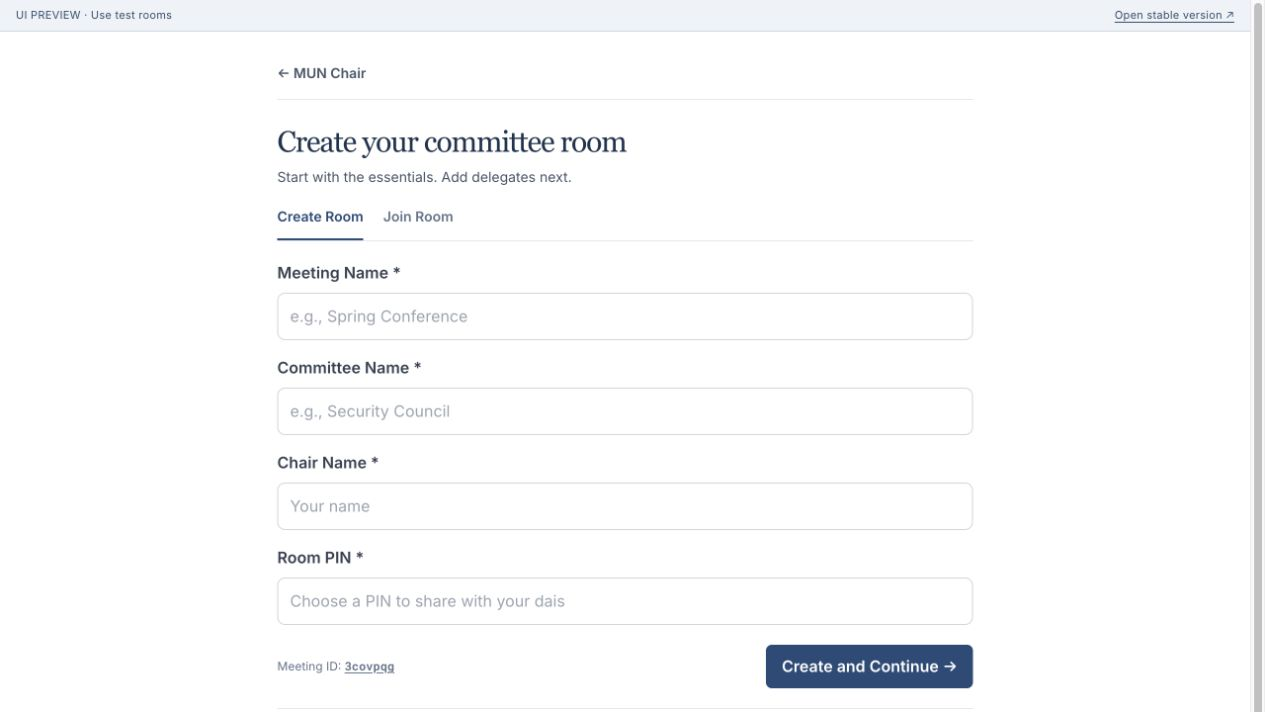
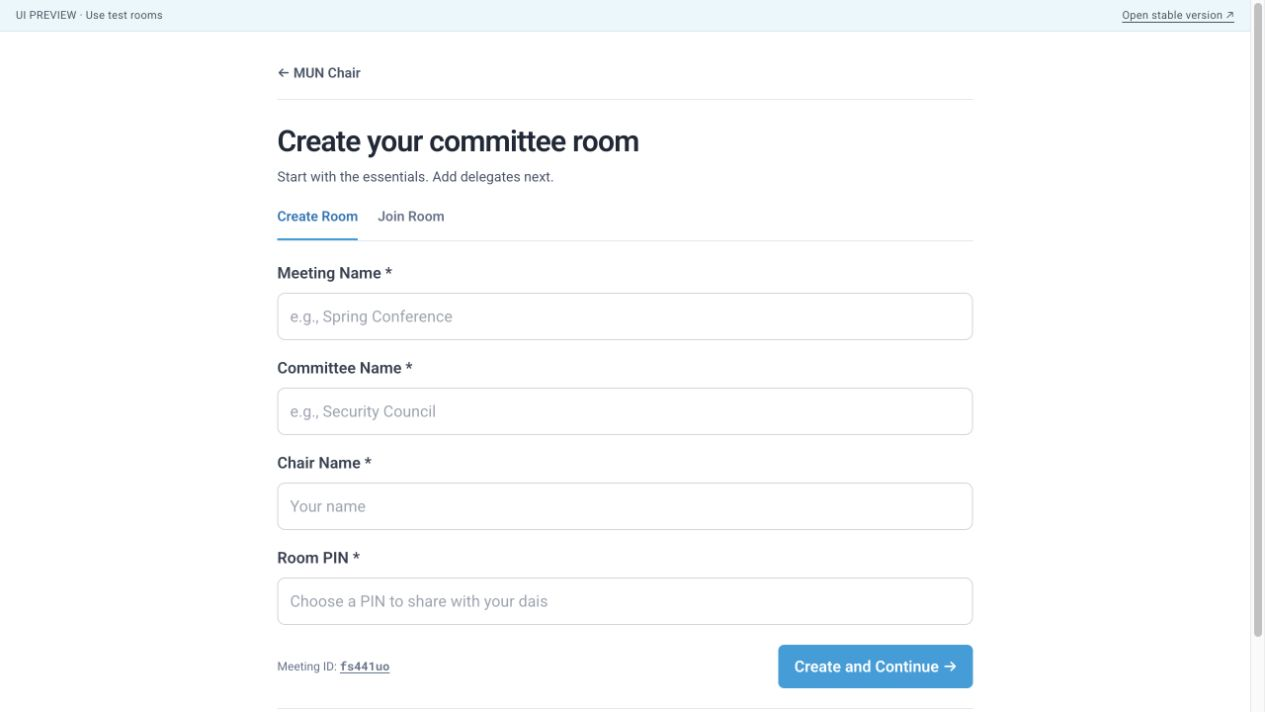
Simplify homepage copy and showcase current meeting UI

diff --git a/src/pages/HomePage.tsx b/src/pages/HomePage.tsx
@@ -9,7 +9,7 @@ interface HomePageProps {
 }
 
 export const HomePage: React.FC<HomePageProps> = ({ onCreateRoom, onJoinRoom, onStartDemo, walkthroughUrl }) => {
-  const [activeStep, setActiveStep] = useState(0);
+  const [activeStep, setActiveStep] = useState(2);
   const step = workflowSteps[activeStep];
 
   return (
@@ -19,30 +19,24 @@ export const HomePage: React.FC<HomePageProps> = ({ onCreateRoom, onJoinRoom, on
         <span className="text-xs text-slate-500">Free beta · No account needed</span>
       </header>
       <main className="mx-auto max-w-5xl px-5 sm:px-8">
-        <section className="py-12 sm:py-16">
-          <p className="mb-4 text-sm font-semibold text-blue-800">For the dais</p>
-          <h1 className="desk-title max-w-2xl text-4xl leading-tight sm:text-5xl">Your committee, in order.</h1>
-          <p className="mt-5 max-w-xl text-lg leading-8 text-slate-600">Keep speakers, motions and votes together. Spend less time keeping records, and more time chairing.</p>
-          <div className="mt-8 flex flex-wrap items-center gap-3">
-            <button type="button" onClick={onCreateRoom} className="rounded-md bg-blue-800 px-6 py-3 font-semibold text-white hover:bg-blue-900 focus-visible:outline focus-visible:outline-2 focus-visible:outline-offset-4 focus-visible:outline-blue-700">Create Room <span aria-hidden="true">→</span></button>
-            <button type="button" onClick={onJoinRoom} className="rounded-md border border-slate-300 px-6 py-3 font-semibold hover:border-blue-700 hover:text-blue-800 focus-visible:outline focus-visible:outline-2 focus-visible:outline-offset-4 focus-visible:outline-blue-700">Join Room</button>
-          </div>
-          <p className="mt-3 text-sm text-slate-500">Joining a team? Have your Meeting ID and PIN ready.</p>
-          <div className="mt-7 flex flex-wrap items-center gap-x-6 gap-y-3 text-sm">
-            <button type="button" onClick={onStartDemo} className="font-semibold text-blue-800 underline decoration-blue-200 underline-offset-4 hover:decoration-blue-800">Try a sample committee →</button>
-            {walkthroughUrl ? <a href={walkthroughUrl} target="_blank" rel="noreferrer" className="text-slate-600 underline underline-offset-4">Watch the walkthrough</a> : <span className="text-slate-500">Video walkthrough coming soon</span>}
+        <section className="py-10 sm:py-12 text-center">
+          <h1 className="desk-title mx-auto max-w-3xl text-4xl leading-tight sm:text-6xl">Chair your next committee.</h1>
+          <p className="mt-4 text-base leading-7 text-slate-600 sm:text-lg">Speakers, motions, votes—all in one place.</p>
+          <div className="mt-6 flex flex-wrap items-center justify-center gap-3">
+            <button type="button" onClick={onCreateRoom} className="rounded-md bg-primary px-6 py-3 font-semibold text-white hover:bg-primary-hover focus-visible:outline focus-visible:outline-2 focus-visible:outline-offset-4 focus-visible:outline-primary">Create Room <span aria-hidden="true">→</span></button>
+            <button type="button" onClick={onJoinRoom} className="rounded-md border border-slate-300 px-6 py-3 font-semibold hover:border-primary hover:text-primary-text focus-visible:outline focus-visible:outline-2 focus-visible:outline-offset-4 focus-visible:outline-primary">Join Room</button>
+            <button type="button" onClick={onStartDemo} className="px-3 py-3 font-semibold text-primary-text underline decoration-sky-200 underline-offset-4 hover:decoration-primary focus-visible:outline focus-visible:outline-2 focus-visible:outline-offset-4 focus-visible:outline-primary">Try demo <span aria-hidden="true">→</span></button>
           </div>
         </section>
-        <section className="border-t border-slate-200 py-10" aria-labelledby="workflow-heading">
-          <h2 id="workflow-heading" className="desk-title text-2xl">From roll call to the final vote.</h2>
-          <div className="mt-6 flex flex-wrap gap-x-6 gap-y-2" aria-label="Preview the meeting workflow">
-            {workflowSteps.map((item, index) => <button key={item.id} type="button" aria-pressed={activeStep === index} onClick={() => setActiveStep(index)} className={`border-b-2 py-2 text-sm font-semibold ${activeStep === index ? 'border-blue-800 text-blue-800' : 'border-transparent text-slate-500 hover:text-slate-900'}`}><span className="mr-2 font-mono text-xs">0{index + 1}</span>{item.label}</button>)}
+        <section className="pb-10" aria-label="Product preview">
+          <img src={step.imageSrc} alt={step.imageAlt} decoding="async" className="w-full border border-slate-200" />
+          <div className="mt-4 flex flex-wrap justify-center gap-x-6 gap-y-2" aria-label="Preview the meeting workflow">
+            {workflowSteps.map((item, index) => <button key={item.id} type="button" aria-pressed={activeStep === index} onClick={() => setActiveStep(index)} className={`border-b-2 py-2 text-sm font-semibold ${activeStep === index ? 'border-primary text-primary-text' : 'border-transparent text-slate-500 hover:text-slate-900'}`}><span className="mr-2 font-mono text-xs">0{index + 1}</span>{item.label}</button>)}
           </div>
-          <p className="my-4 max-w-2xl text-sm leading-6 text-slate-600">{step.description}</p>
-          <img src={step.imageSrc} alt={step.imageAlt} loading="lazy" decoding="async" className="w-full rounded-md border border-slate-200" />
+          {walkthroughUrl && <a href={walkthroughUrl} target="_blank" rel="noreferrer" className="mt-4 block text-center text-sm text-primary-text underline underline-offset-4">Watch the walkthrough</a>}
         </section>
         <section className="border-t border-slate-200 py-10" aria-labelledby="faq-heading">
-          <h2 id="faq-heading" className="desk-title mb-6 text-2xl">A few things to know</h2>
+          <h2 id="faq-heading" className="desk-title mb-6 text-2xl">FAQ</h2>
           {faqItems.map((item) => <details key={item.question} className="border-b border-slate-200 py-4"><summary className="cursor-pointer font-medium text-slate-800">{item.question}</summary><p className="mt-3 max-w-2xl text-sm leading-7 text-slate-600">{item.answer}</p></details>)}
         </section>
       </main>

diff --git a/docs/homepage-preview-plan.md b/docs/homepage-preview-plan.md
@@ -1,0 +1,9 @@
+# Homepage preview
+
+Approved: one heading, one short description, Create / Join / Try demo, real current session screenshot; bright UN blue with white labels, no decorative cards. FAQ content retained. Production unchanged.
+
+Plan: update HomePage layout and remove repeated descriptive prose; capture current local demo as screenshot; preserve three workflow previews with current screenshots; run build and existing tests; verify desktop/mobile, entry routes and FAQ; deploy preview branch only.
+
+No backend, room data format, authentication or session changes.
+
+Verification: production build and 25 existing tests pass. Browser verified Create, Join, Try demo, all three image choices and FAQ expansion. Current screenshots captured from real UI. Exact main button computed color is rgb(0,158,219). Mobile viewport override did not apply to document width; mobile visual verification remains incomplete. Previous preview b52b0c8 remains recoverable.
